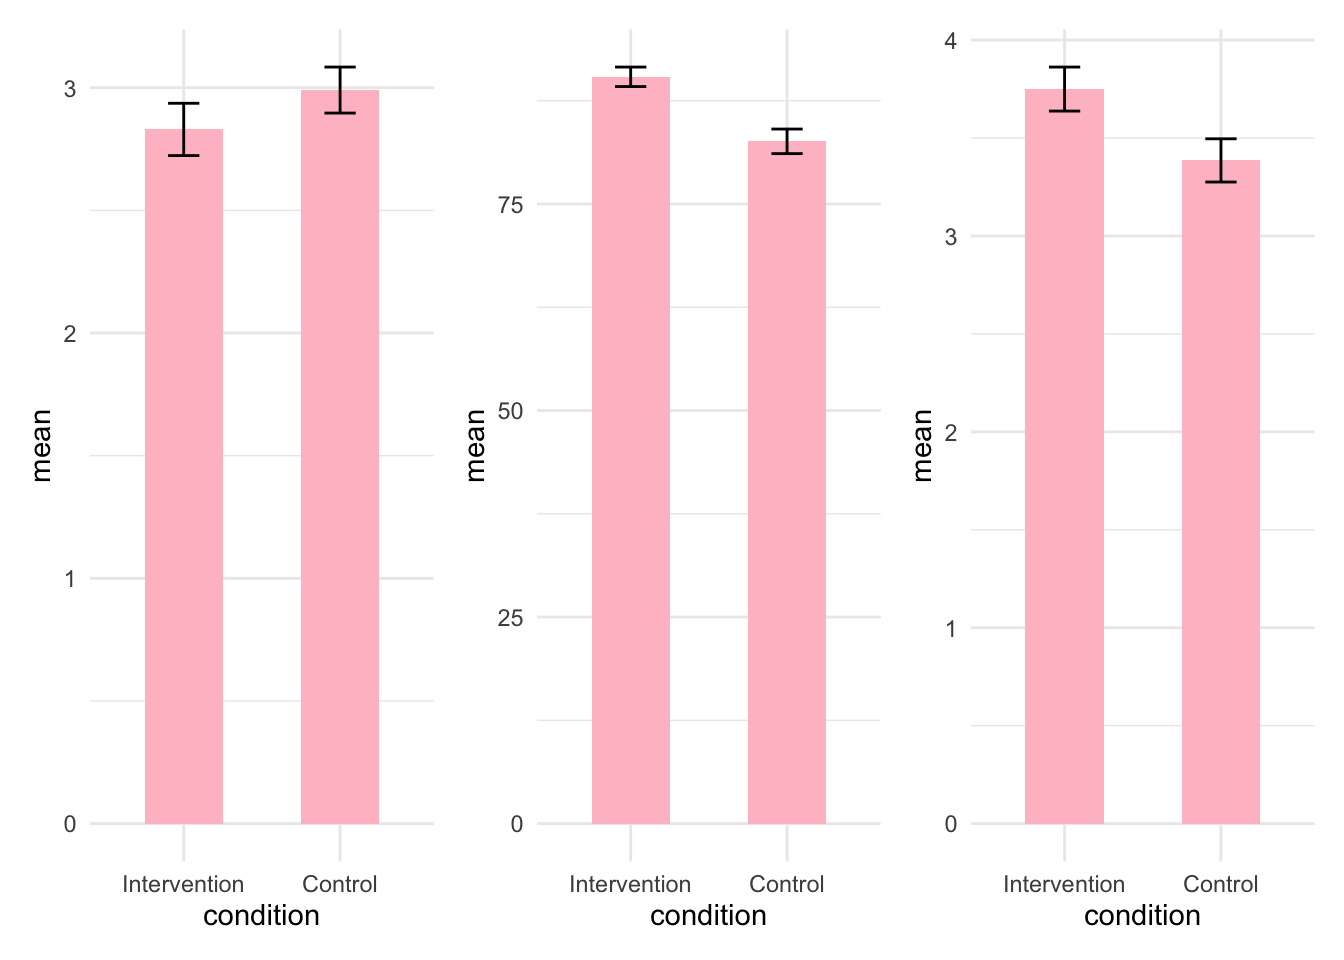
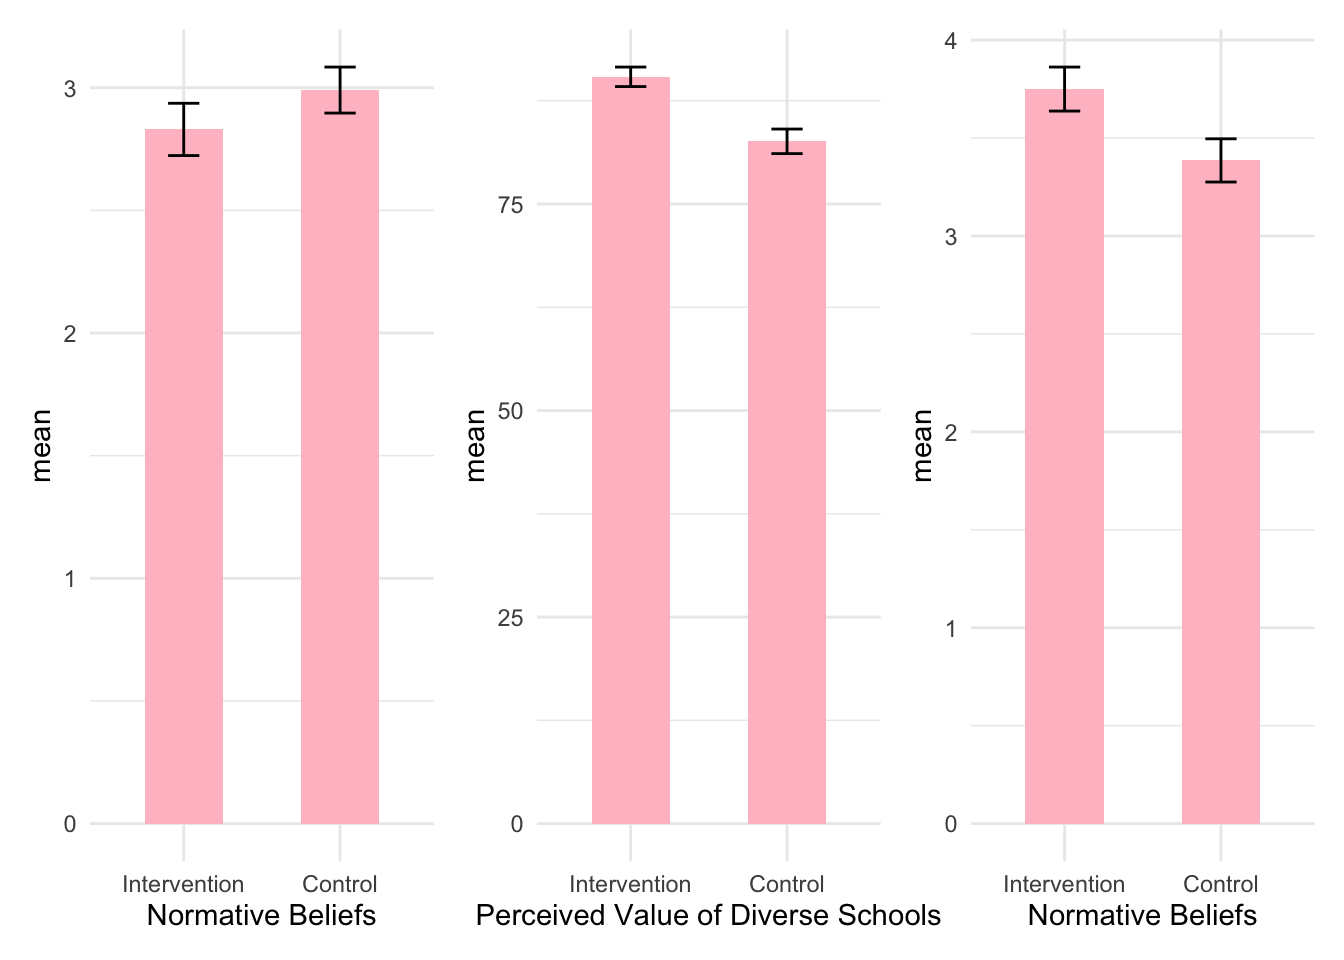
A few pieces were cleaned.

Changed region(s): [[0.3438, 0.9375, 0.7188, 0.9688], [0.75, 0.9375, 0.9375, 0.9688], [0.0938, 0.9375, 0.2812, 0.9688]]

diff --git a/docs/p10.html b/docs/p10.html
@@ -295,105 +295,14 @@ $(document).ready(function () {
 </div>
 
 
-<blockquote>
-<p>The projects should be numbered consecutively (i.e., in the order in
-which you began them), and should include for each project a description
-of the goal, the product (computer program, hand graph, computer graph,
-etc.), the data, and some interpretation. Reports must be reproducible
-and of high quality in terms of writing, grammar, presentation, etc.</p>
-</blockquote>
-<p>Lorem ipsum dolor sit amet, consectetur adipiscing elit. Sed
-hendrerit purus ut dapibus vestibulum. Suspendisse potenti. Cras
-faucibus mauris in leo condimentum lobortis. Cras euismod sollicitudin
-augue, ut venenatis quam placerat eu. Maecenas vulputate rhoncus odio,
-in interdum risus malesuada gravida. Maecenas cursus sed dui sit amet
-lacinia. Nunc dignissim metus nec ex mattis, non rutrum urna cursus.
-Morbi pretium elementum purus, in aliquet libero eleifend ac. Nam
-finibus, ligula sed ultrices pharetra, tellus risus consequat tortor,
-facilisis maximus elit lectus a metus. Sed vel dictum nulla, vitae
-blandit turpis. Integer pulvinar tempor diam ac venenatis. Vestibulum
-est lacus, suscipit et ipsum nec, consectetur iaculis leo. Morbi libero
-lacus, scelerisque non sollicitudin vitae, accumsan sed tellus.
-Suspendisse quis orci tellus.</p>
-<div id="r-markdown" class="section level2">
-<h2>R Markdown</h2>
-<p>This is an R Markdown document. Markdown is a simple formatting
-syntax for authoring HTML, PDF, and MS Word documents. For more details
-on using R Markdown see <a href="http://rmarkdown.rstudio.com"
-class="uri">http://rmarkdown.rstudio.com</a>.</p>
-<p>When you click the <strong>Knit</strong> button a document will be
-generated that includes both content as well as the output of any
-embedded R code chunks within the document. You can embed an R code
-chunk like this:</p>
-<pre class="r"><code>summary(cars)</code></pre>
-<pre><code>##      speed           dist       
-##  Min.   : 4.0   Min.   :  2.00  
-##  1st Qu.:12.0   1st Qu.: 26.00  
-##  Median :15.0   Median : 36.00  
-##  Mean   :15.4   Mean   : 42.98  
-##  3rd Qu.:19.0   3rd Qu.: 56.00  
-##  Max.   :25.0   Max.   :120.00</code></pre>
-<p>Maecenas luctus convallis efficitur. Vestibulum pharetra laoreet nibh
-non congue. Etiam ornare, neque sit amet condimentum aliquet, odio ipsum
-porttitor elit, eu malesuada turpis augue sit amet arcu. Integer nec
-quam et massa congue tincidunt. Donec sit amet diam placerat, pharetra
-quam nec, ornare nisl. Quisque erat turpis, imperdiet eget tellus non,
-interdum ultricies nisi. Fusce a erat est. Nunc sollicitudin ante non
-eros vulputate, sed eleifend nulla hendrerit. Nam ac quam nulla.
-Praesent a ligula a justo auctor tristique ac vel neque. Class aptent
-taciti sociosqu ad litora torquent per conubia nostra, per inceptos
-himenaeos. Quisque tempor felis sed lorem efficitur volutpat. Aliquam
-lectus diam, lacinia vitae velit eget, pulvinar porta massa. Curabitur
-nec egestas mi.</p>
-</div>
-<div id="including-plots" class="section level2">
-<h2>Including Plots</h2>
-<p>You can also embed plots, for example:</p>
-<p><img src="p10_files/figure-html/pressure-1.png" alt="" width="672" /></p>
-<p>Note that the <code>echo = FALSE</code> parameter was added to the
-code chunk to prevent printing of the R code that generated the
-plot.</p>
-<p>Morbi tincidunt mollis odio sit amet feugiat. Ut vel risus eu ante
-dictum consequat. Integer et luctus mauris. Donec nec faucibus urna, sed
-commodo risus. Nam elementum pulvinar erat, eget convallis est blandit
-vel. Etiam gravida sapien eu massa hendrerit maximus. Proin dolor quam,
-porta vitae libero non, venenatis porta tellus. Vivamus et elit a est
-aliquet consequat. Proin tempus, purus quis suscipit placerat, dui nunc
-euismod dui, sit amet luctus leo lectus in risus. Phasellus consectetur
-eleifend arcu. Nullam venenatis blandit nulla ut ullamcorper. Vestibulum
-eu arcu quis massa scelerisque sodales in ac augue. Quisque dapibus
-fringilla turpis, ut cursus tortor cursus sed. Sed facilisis quam eget
-neque viverra venenatis. Suspendisse ut lorem nec erat elementum
-bibendum. Curabitur lobortis purus in cursus blandit.</p>
-<p>Aliquam sed ex et lorem consequat feugiat at porta leo. Fusce id
-hendrerit tellus. Maecenas dictum felis neque, quis dictum metus
-tristique eu. Vivamus sed blandit nisl. Integer ut urna dolor. Cras in
-egestas eros, in aliquam nisi. Duis vitae elementum quam. Vivamus vel
-turpis commodo, porttitor urna vitae, viverra sem. Nam nec dignissim
-erat, id viverra libero. Integer vel lectus pellentesque tortor
-fringilla posuere. Vivamus quis magna accumsan, porta tortor at, aliquam
-urna. Aliquam vestibulum ante massa, ut gravida lectus sagittis
-vitae.</p>
-<p>Sed eget ipsum auctor, gravida magna sit amet, tincidunt mi. Nulla
-erat ante, volutpat nec sem eget, luctus posuere est. Praesent convallis
-nunc ac turpis bibendum, in maximus magna convallis. Vestibulum ante
-ipsum primis in faucibus orci luctus et ultrices posuere cubilia curae;
-Sed sit amet nulla ante. Sed elit sem, lobortis nec nisi a, rhoncus
-ornare nunc. Curabitur ultrices neque feugiat, facilisis magna eu,
-consectetur magna. Mauris id eleifend ex.</p>
-<p>Morbi tincidunt mollis odio sit amet feugiat. Ut vel risus eu ante
-dictum consequat. Integer et luctus mauris. Donec nec faucibus urna, sed
-commodo risus. Nam elementum pulvinar erat, eget convallis est blandit
-vel. Etiam gravida sapien eu massa hendrerit maximus. Proin dolor quam,
-porta vitae libero non, venenatis porta tellus. Vivamus et elit a est
-aliquet consequat. Proin tempus, purus quis suscipit placerat, dui nunc
-euismod dui, sit amet luctus leo lectus in risus. Phasellus consectetur
-eleifend arcu. Nullam venenatis blandit nulla ut ullamcorper. Vestibulum
-eu arcu quis massa scelerisque sodales in ac augue. Quisque dapibus
-fringilla turpis, ut cursus tortor cursus sed. Sed facilisis quam eget
-neque viverra venenatis. Suspendisse ut lorem nec erat elementum
-bibendum. Curabitur lobortis purus in cursus blandit.</p>
-</div>
+<p>Goal: The goal of this portfolio piece is to create graphics for
+descriptive statistics of parents in the first study of my thesis.</p>
+<pre><code>## Warning: NAs introduced by coercion</code></pre>
+<pre><code>## Warning: Removed 31 rows containing non-finite outside the scale range
+## (`stat_count()`).</code></pre>
+<p><img src="p10_files/figure-html/create-plots-of-demos-1.png" alt="" width="672" /></p>
+<pre><code>## Warning: NAs introduced by coercion</code></pre>
+<p><img src="p10_files/figure-html/create-plots-of-demos-2.png" alt="" width="672" /><img src="p10_files/figure-html/create-plots-of-demos-3.png" alt="" width="672" /></p>
 
 
 

diff --git a/docs/p06.html b/docs/p06.html
@@ -299,81 +299,6 @@ $(document).ready(function () {
 for the secondary dependent measures of my thesis. My intervention was
 designed to reduce tension between diversity values and other school
 choice factors to desegregate schools.</p>
-<pre class="r"><code>library(readxl)
-library(haven)
-library(ggplot2)
-library(psych)</code></pre>
-<pre><code>## 
-## Attaching package: &#39;psych&#39;</code></pre>
-<pre><code>## The following objects are masked from &#39;package:ggplot2&#39;:
-## 
-##     %+%, alpha</code></pre>
-<pre class="r"><code>library(dplyr)</code></pre>
-<pre><code>## 
-## Attaching package: &#39;dplyr&#39;</code></pre>
-<pre><code>## The following objects are masked from &#39;package:stats&#39;:
-## 
-##     filter, lag</code></pre>
-<pre><code>## The following objects are masked from &#39;package:base&#39;:
-## 
-##     intersect, setdiff, setequal, union</code></pre>
-<pre class="r"><code>library(patchwork)
-
-pulse_data &lt;- read_sav(&quot;/Users/tiffani/Downloads/PULSE_combined.sav&quot;)</code></pre>
-<pre class="r"><code>summary_normative_beliefs &lt;- pulse_data %&gt;% 
-  group_by(condition) %&gt;% 
-  summarise(
-    mean = mean(priority_racdiverse, na.rm = TRUE),
-    sd = sd(priority_racdiverse, na.rm = TRUE),
-    n = n(),
-    se = sd/sqrt(n)
-  )
-
-summary_perc_value &lt;- pulse_data %&gt;% 
-  group_by(condition) %&gt;% 
-  summarise(
-    mean = mean(value_comp6, na.rm = TRUE),
-    sd = sd(value_comp6, na.rm = TRUE),
-    n = n(),
-    se = sd/sqrt(n)
-  )
-summary_self_efficacy &lt;- pulse_data %&gt;% 
-  group_by(condition) %&gt;% 
-  summarise(
-    mean = mean(confident_diversity_comp2, na.rm = TRUE),
-    sd = sd(confident_diversity_comp2, na.rm = TRUE),
-    n = n(),
-    se = sd/sqrt(n)
-  )</code></pre>
-<pre class="r"><code>p1 &lt;- ggplot(summary_normative_beliefs, aes(x = condition, y = mean)) +
-  geom_col(fill = &quot;pink&quot;, width = 0.5) +
-  geom_errorbar(aes(ymin = mean - se, ymax = mean + se), width = 0.2) +
-
-   scale_x_discrete(labels= c(
-    diversity = &quot;Intervention&quot;,
-    p_involvement = &quot;Control&quot;
-  )) +
-  theme_minimal()
-
-p2 &lt;- ggplot(summary_perc_value, aes(x = condition, y = mean)) +
-  geom_col(fill = &quot;pink&quot;, width = 0.5) +
-  geom_errorbar(aes(ymin = mean - se, ymax = mean + se), width = 0.2) +
-
-   scale_x_discrete(labels= c(
-    diversity = &quot;Intervention&quot;,
-    p_involvement = &quot;Control&quot;
-  )) +
-  theme_minimal()
-
-p3 &lt;- ggplot(summary_self_efficacy, aes(x = condition, y = mean)) +
-  geom_col(fill = &quot;pink&quot;, width = 0.5) +
-  geom_errorbar(aes(ymin = mean - se, ymax = mean + se), width = 0.2) +
-   scale_x_discrete(labels= c(
-    diversity = &quot;Intervention&quot;,
-    p_involvement = &quot;Control&quot;
-  )) +
-  theme_minimal()</code></pre>
-<pre class="r"><code>p1 + p2 + p3</code></pre>
 <p><img src="p06_files/figure-html/positioning-1.png" alt="" width="672" /></p>
 
 

diff --git a/docs/p01.html b/docs/p01.html
@@ -300,45 +300,6 @@ $(document).ready(function () {
 <p>The goal of this portfolio piece was to create a visualization to
 represent how parents rank 10 values with thinking about what they
 prioritize during the school choice process.</p>
-<pre class="r"><code>library(haven)
-library(tidyverse)</code></pre>
-<pre><code>## ── Attaching core tidyverse packages ──────────────────────── tidyverse 2.0.0 ──
-## ✔ dplyr     1.1.4     ✔ readr     2.1.6
-## ✔ forcats   1.0.1     ✔ stringr   1.6.0
-## ✔ ggplot2   4.0.1     ✔ tibble    3.3.0
-## ✔ lubridate 1.9.4     ✔ tidyr     1.3.2
-## ✔ purrr     1.2.0     
-## ── Conflicts ────────────────────────────────────────── tidyverse_conflicts() ──
-## ✖ dplyr::filter() masks stats::filter()
-## ✖ dplyr::lag()    masks stats::lag()
-## ℹ Use the conflicted package (&lt;http://conflicted.r-lib.org/&gt;) to force all conflicts to become errors</code></pre>
-<pre class="r"><code>data&lt;-read.csv(&quot;/Users/tiffani/Downloads/Project PULSE - Study 1 (Tiffani)_December 18, 2025_09.18_clean.csv&quot;)
-data &lt;- data %&gt;% 
-  select(&quot;values_1&quot;, &quot;values_2&quot;, &quot;values_3&quot;, &quot;values_4&quot;, &quot;values_5&quot;, &quot;values_6&quot;, &quot;values_7&quot;, &quot;values_8&quot;, &quot;values_9&quot;, &quot;values_99&quot;)
-  data &lt;- data [-c(1,2),]</code></pre>
-<pre class="r"><code>names(data) &lt;- c(&quot;academic_performance&quot;, &quot;academic_growth&quot;, &quot;absenteeism&quot;, &quot;racial_diversity&quot;, &quot;special_programming&quot;, &quot;convenience&quot;, &quot;leadership&quot;, &quot;mission_statement&quot;, &quot;economic_diversity&quot;, &quot;other&quot;)
-library(tidyverse)
-values_long &lt;- data %&gt;%
-  pivot_longer(
-    cols = everything(),
-    names_to = &quot;value&quot;,
-    values_to = &quot;rank&quot;
-  )
-values_long &lt;- values_long %&gt;%
-  mutate(rank = as.numeric(rank)) %&gt;%
-  filter(rank &gt;= 1 &amp; rank &lt;= 10)</code></pre>
-<pre class="r"><code>ggplot(values_long,
-       aes(x = reorder(value, rank, FUN = mean),
-           y = rank)) +
-  geom_boxplot() +
-  coord_flip() +
-  scale_y_reverse(breaks = 1:10) +
-  labs(
-    x = &quot;Value&quot;,
-    y = &quot;Rank (1 = Most Important)&quot;,
-    title = &quot;Distribution of Value Rankings&quot;
-  ) +
-  theme_classic()</code></pre>
 <p><img src="p01_files/figure-html/create-plot-1.png" alt="" width="672" /></p>
 
 

diff --git a/docs/p07.html b/docs/p07.html
@@ -295,13 +295,17 @@ $(document).ready(function () {
 </div>
 
 
-<blockquote>
-<p>The projects should be numbered consecutively (i.e., in the order in
-which you began them), and should include for each project a description
-of the goal, the product (computer program, hand graph, computer graph,
-etc.), the data, and some interpretation. Reports must be reproducible
-and of high quality in terms of writing, grammar, presentation, etc.</p>
-</blockquote>
+<p>Goal: The goal of this portfolio piece was to create a figure for my
+thesis that illustrated an insignificant relationship between two
+variables.</p>
+<p>This graphic does a pretty good job of actually depicting what is
+goig on with the data. I think there may be some room for improvement,
+but I also want to see how this looks with just points.</p>
+<p><img src="p07_files/figure-html/plot-data-1.png" alt="" width="672" /></p>
+<p>I think this exacerbates the actual gap between the two conditions.
+There’s wasn’t much of a difference between the two, but this shows
+otherwise.</p>
+<p><img src="p07_files/figure-html/plot-data-2-1.png" alt="" width="672" /></p>
 
 
 
